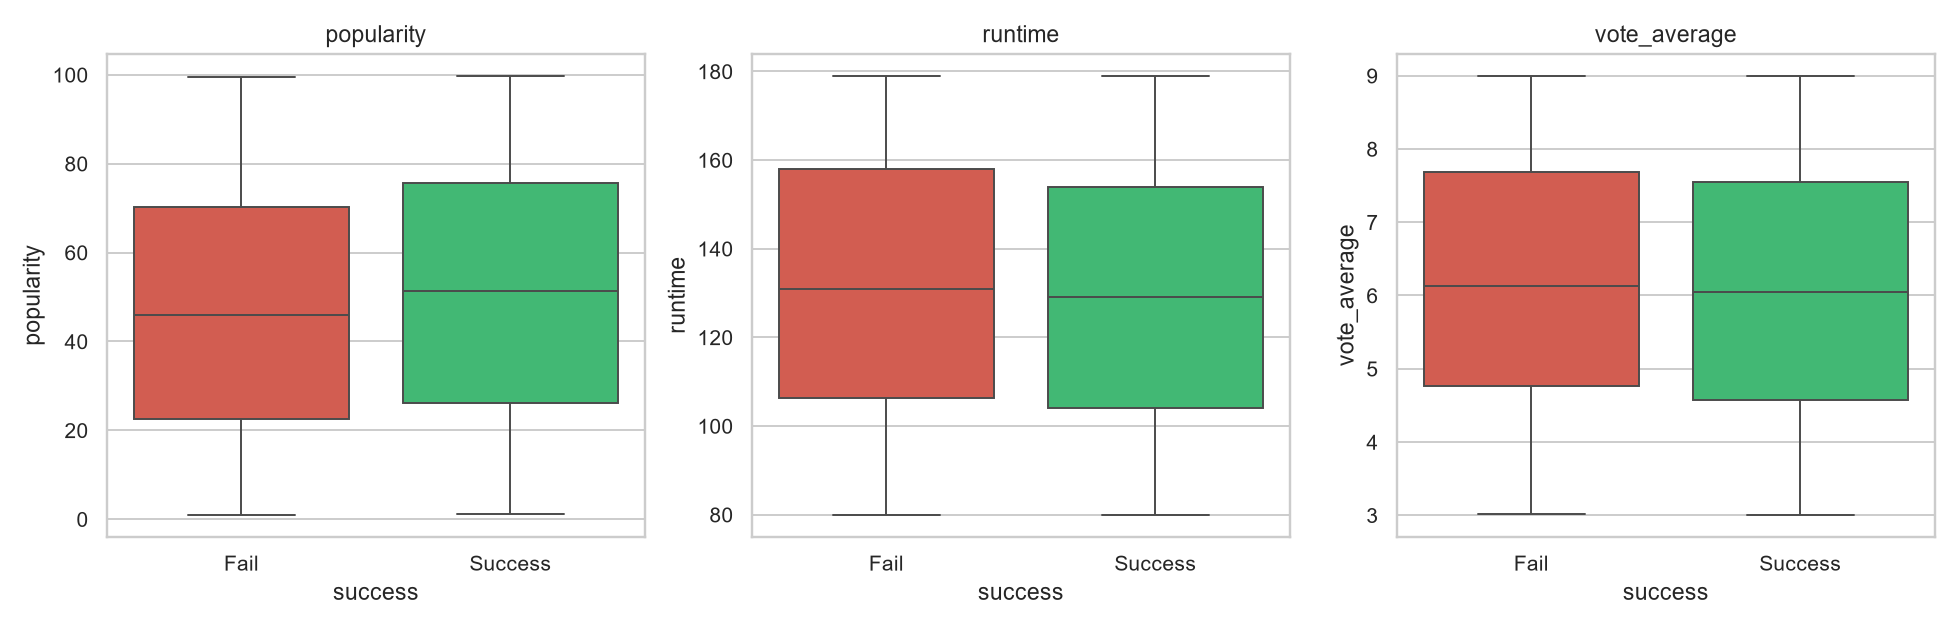
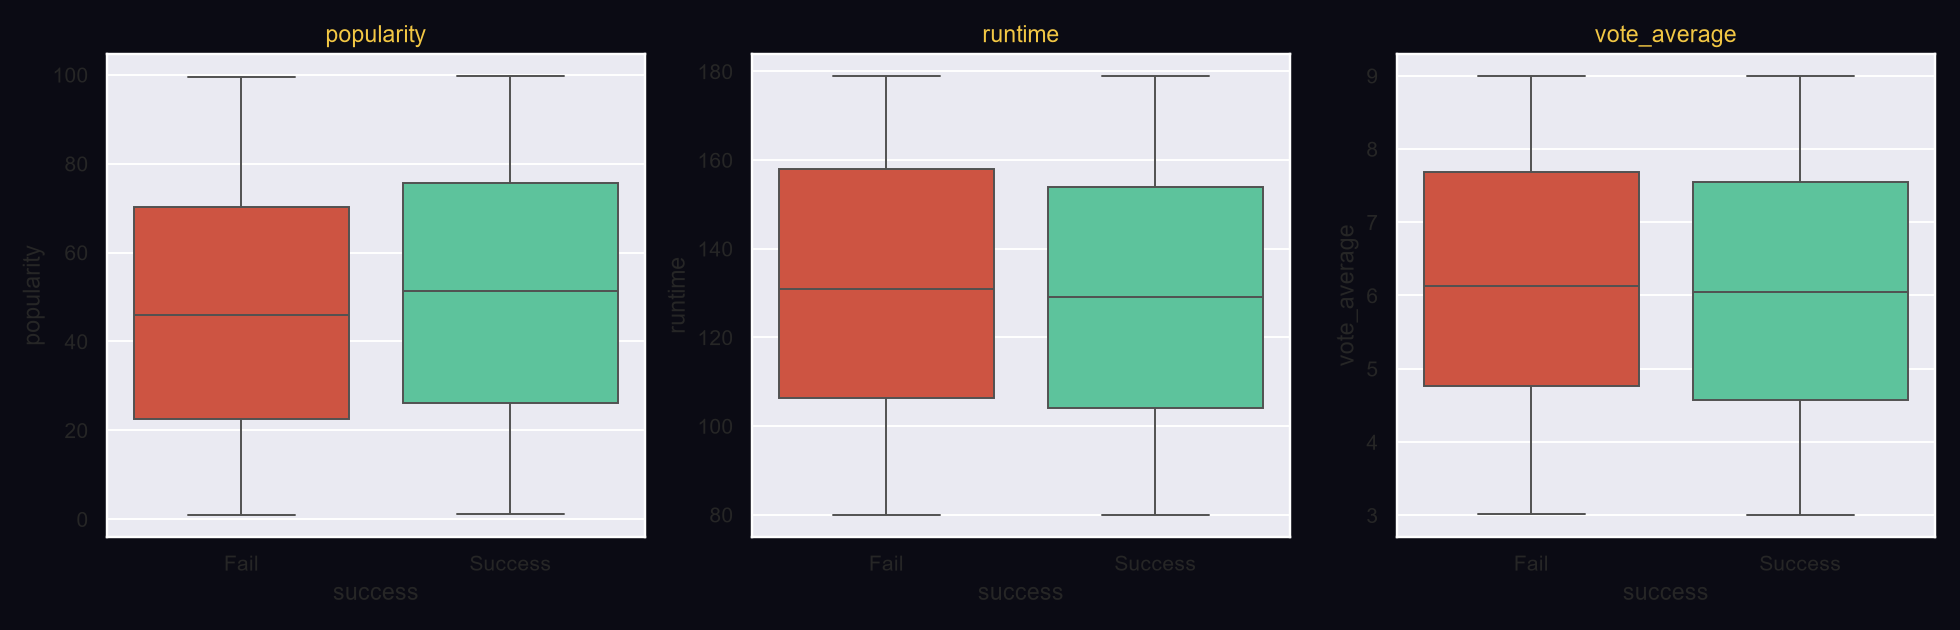
Cinema marquee redesign

diff --git a/MovieIQ.py b/MovieIQ.py
@@ -21,17 +21,98 @@ import streamlit as st
 # ---------------------------------------------------------------------------
 st.set_page_config(page_title="MovieIQ", page_icon="🎬", layout="wide")
 
+# Cinema-marquee palette
+GOLD = "#F2C744"
+CRIMSON = "#E4432B"
+TEAL = "#2EC4B6"
+VIOLET = "#8B5CF6"
+INK = "#0B0B14"
+PANEL = "#16161F"
+TEXT = "#F5F3EE"
+MUTED = "#A8A5B8"
+CHART_SEQUENCE = [GOLD, TEAL, CRIMSON, VIOLET, "#5B8DEF", "#F27D64", "#4CD4A0", "#C77DFF"]
+
 st.markdown(
-    """
+    f"""
     <style>
-    .stMetric { background: #14141c; border-radius: 12px; padding: 14px 10px; }
-    div[data-testid="stMetricValue"] { color: #f5c518; }
-    .movieiq-hero {
-        background: linear-gradient(135deg, #1f1c2c 0%, #928dab 100%);
-        padding: 28px 32px; border-radius: 16px; margin-bottom: 18px;
-    }
-    .movieiq-hero h1 { color: white; margin-bottom: 4px; }
-    .movieiq-hero p { color: #eaeaea; margin: 0; }
+    @import url('https://fonts.googleapis.com/css2?family=Bebas+Neue&family=Inter:wght@400;500;600;700&display=swap');
+
+    html, body, [class*="css"] {{ font-family: 'Inter', sans-serif; }}
+    .stApp {{ background: {INK}; }}
+
+    h1, h2, h3, .movieiq-hero h1 {{
+        font-family: 'Bebas Neue', sans-serif;
+        letter-spacing: 0.03em;
+    }}
+
+    .movieiq-hero {{
+        background: linear-gradient(120deg, #1a1024 0%, #2b1030 55%, #1a1024 100%);
+        padding: 34px 36px 26px 36px;
+        border-radius: 18px;
+        margin-bottom: 6px;
+        border: 1px solid rgba(242, 199, 68, 0.25);
+        box-shadow: 0 10px 40px rgba(228, 67, 43, 0.15);
+    }}
+    .movieiq-hero h1 {{
+        color: {GOLD};
+        font-size: 3rem;
+        margin-bottom: 6px;
+        text-shadow: 0 0 18px rgba(242, 199, 68, 0.35);
+    }}
+    .movieiq-hero p {{ color: {MUTED}; margin: 0; font-size: 1.02rem; }}
+
+    .marquee-lights {{
+        display: flex; gap: 10px; justify-content: center;
+        padding: 12px 0 22px 0;
+    }}
+    .marquee-lights span {{
+        width: 8px; height: 8px; border-radius: 50%;
+        display: inline-block;
+        animation: marquee-blink 1.6s infinite ease-in-out;
+    }}
+    .marquee-lights span:nth-child(4n+1) {{ background: {GOLD}; box-shadow: 0 0 8px {GOLD}; animation-delay: 0s; }}
+    .marquee-lights span:nth-child(4n+2) {{ background: {CRIMSON}; box-shadow: 0 0 8px {CRIMSON}; animation-delay: 0.2s; }}
+    .marquee-lights span:nth-child(4n+3) {{ background: {TEAL}; box-shadow: 0 0 8px {TEAL}; animation-delay: 0.4s; }}
+    .marquee-lights span:nth-child(4n+4) {{ background: {VIOLET}; box-shadow: 0 0 8px {VIOLET}; animation-delay: 0.6s; }}
+    @keyframes marquee-blink {{
+        0%, 100% {{ opacity: 0.35; transform: scale(0.85); }}
+        50% {{ opacity: 1; transform: scale(1.1); }}
+    }}
+    @media (prefers-reduced-motion: reduce) {{
+        .marquee-lights span {{ animation: none; opacity: 0.9; }}
+    }}
+
+    div[data-testid="stMetric"] {{
+        border-radius: 14px; padding: 16px 14px;
+        border: 1px solid rgba(255,255,255,0.06);
+        background: {PANEL};
+    }}
+    div[data-testid="column"]:nth-of-type(4n+1) div[data-testid="stMetric"] {{ border-top: 3px solid {GOLD}; }}
+    div[data-testid="column"]:nth-of-type(4n+2) div[data-testid="stMetric"] {{ border-top: 3px solid {TEAL}; }}
+    div[data-testid="column"]:nth-of-type(4n+3) div[data-testid="stMetric"] {{ border-top: 3px solid {CRIMSON}; }}
+    div[data-testid="column"]:nth-of-type(4n+4) div[data-testid="stMetric"] {{ border-top: 3px solid {VIOLET}; }}
+    div[data-testid="stMetricValue"] {{ color: {GOLD}; font-family: 'Bebas Neue', sans-serif; font-size: 2.1rem; }}
+    div[data-testid="stMetricLabel"] {{ color: {MUTED}; }}
+
+    .stTabs [data-baseweb="tab-list"] {{ gap: 4px; border-bottom: 2px solid rgba(255,255,255,0.06); }}
+    .stTabs [data-baseweb="tab"] {{
+        background: {PANEL}; border-radius: 10px 10px 0 0; padding: 10px 18px;
+        color: {MUTED}; font-weight: 600;
+    }}
+    .stTabs [aria-selected="true"] {{
+        color: {INK} !important; background: {GOLD} !important;
+    }}
+
+    section[data-testid="stSidebar"] {{ background: #100E17; border-right: 1px solid rgba(242,199,68,0.12); }}
+    section[data-testid="stSidebar"] h1, section[data-testid="stSidebar"] h2, section[data-testid="stSidebar"] h3 {{ color: {GOLD}; }}
+
+    .stButton>button, .stDownloadButton>button {{
+        background: linear-gradient(90deg, {CRIMSON}, {GOLD});
+        color: {INK}; border: none; font-weight: 700; border-radius: 8px;
+    }}
+    .stButton>button:hover, .stDownloadButton>button:hover {{ filter: brightness(1.08); }}
+
+    div[data-testid="stAlertContainer"] {{ border-radius: 10px; }}
     </style>
     """,
     unsafe_allow_html=True,
@@ -60,6 +141,21 @@ def load_json(path):
         return json.load(f)
 
 
+def themed(fig):
+    """Apply the MovieIQ dark/marquee look to any Plotly figure."""
+    fig.update_layout(
+        paper_bgcolor="rgba(0,0,0,0)",
+        plot_bgcolor="rgba(0,0,0,0)",
+        font_color=TEXT,
+        legend_title_font_color=TEXT,
+        colorway=CHART_SEQUENCE,
+        margin=dict(t=40, b=30, l=10, r=10),
+    )
+    fig.update_xaxes(gridcolor="rgba(255,255,255,0.08)", zerolinecolor="rgba(255,255,255,0.15)")
+    fig.update_yaxes(gridcolor="rgba(255,255,255,0.08)", zerolinecolor="rgba(255,255,255,0.15)")
+    return fig
+
+
 df = load_data()
 bundle = load_model()
 model = bundle["model"]
@@ -78,6 +174,12 @@ st.markdown(
     <div class="movieiq-hero">
         <h1>🎬 MovieIQ</h1>
         <p>Predictive analytics on film success — explore the data, see the stats, and get a live prediction.</p>
+    </div>
+    <div class="marquee-lights">
+        <span></span><span></span><span></span><span></span><span></span><span></span>
+        <span></span><span></span><span></span><span></span><span></span><span></span>
+        <span></span><span></span><span></span><span></span><span></span><span></span>
+        <span></span><span></span>
     </div>
     """,
     unsafe_allow_html=True,
@@ -139,7 +241,7 @@ with tab_overview:
     max_val = max(filtered["budget"].max(), filtered["revenue"].max()) if len(filtered) else 1
     fig.add_shape(type="line", x0=0, y0=0, x1=max_val, y1=max_val,
                   line=dict(dash="dash", color="gray"))
-    st.plotly_chart(fig, width="stretch")
+    st.plotly_chart(themed(fig), width="stretch")
     st.caption(
         f"Correlation between budget and revenue across the full dataset: "
         f"**{stats_results['correlation_budget_revenue']}** — bigger budgets trend toward "
@@ -154,8 +256,8 @@ with tab_eda:
         st.subheader("Most common genres")
         genre_counts = filtered.explode("genre_list")["genre_list"].value_counts().head(10)
         st.plotly_chart(
-            px.bar(genre_counts, orientation="h", labels={"value": "Movies", "index": "Genre"},
-                   color_discrete_sequence=["#3498db"]).update_yaxes(autorange="reversed"),
+            themed(px.bar(genre_counts, orientation="h", labels={"value": "Movies", "index": "Genre"},
+                   color_discrete_sequence=[TEAL]).update_yaxes(autorange="reversed")),
             width="stretch",
         )
 
@@ -163,8 +265,8 @@ with tab_eda:
         st.subheader("Success rate by genre")
         genre_success = filtered.explode("genre_list").groupby("genre_list")["success"].mean().sort_values(ascending=False).head(10)
         st.plotly_chart(
-            px.bar(genre_success, orientation="h", labels={"value": "Success rate", "index": "Genre"},
-                   color_discrete_sequence=["#2ecc71"]).update_yaxes(autorange="reversed"),
+            themed(px.bar(genre_success, orientation="h", labels={"value": "Success rate", "index": "Genre"},
+                   color_discrete_sequence=[GOLD]).update_yaxes(autorange="reversed")),
             width="stretch",
         )
 
@@ -176,7 +278,7 @@ with tab_eda:
         color_discrete_map={"Fail": "#e74c3c", "Success": "#2ecc71"},
         labels={"x": "Outcome"},
     )
-    st.plotly_chart(fig_box, width="stretch")
+    st.plotly_chart(themed(fig_box), width="stretch")
 
     st.subheader("Correlation heatmap (numeric features)")
     st.image("assets/correlation_heatmap.png", use_container_width=False, width=560)
@@ -277,7 +379,7 @@ with tab_model:
             },
         ))
         fig_gauge.update_layout(height=280, margin=dict(l=20, r=20, t=50, b=10))
-        st.plotly_chart(fig_gauge, width="stretch")
+        st.plotly_chart(themed(fig_gauge), width="stretch")
         st.caption(
             "Prediction is based only on budget, popularity, runtime, rating, and genre — "
             "revenue is intentionally never used as an input, since it defines the label itself."

diff --git a/analysis.py b/analysis.py
@@ -15,7 +15,16 @@ import pandas as pd
 import seaborn as sns
 from scipy import stats
 
-sns.set_theme(style="whitegrid")
+GOLD, CRIMSON, TEAL, VIOLET = "#F2C744", "#E4432B", "#2EC4B6", "#8B5CF6"
+INK, PANEL, TEXT, MUTED = "#0B0B14", "#16161F", "#F5F3EE", "#A8A5B8"
+
+plt.rcParams.update({
+    "figure.facecolor": INK, "axes.facecolor": INK, "savefig.facecolor": INK,
+    "axes.edgecolor": MUTED, "axes.labelcolor": TEXT, "text.color": TEXT,
+    "xtick.color": MUTED, "ytick.color": MUTED, "grid.color": "#2A2A38",
+    "axes.titlecolor": GOLD, "legend.facecolor": PANEL, "legend.edgecolor": MUTED,
+})
+sns.set_theme(style="darkgrid", rc=plt.rcParams)
 ASSETS = "assets"
 
 # ---------------------------------------------------------------------------
@@ -61,7 +70,7 @@ print("[Stage 1.4] Saved movies_clean.csv with genre_list / primary_genre column
 plt.figure(figsize=(7, 5))
 sns.scatterplot(
     data=df, x="budget", y="revenue", hue="success",
-    palette={0: "#e74c3c", 1: "#2ecc71"}, alpha=0.6,
+    palette={0: CRIMSON, 1: "#4CD4A0"}, alpha=0.6,
 )
 lims = [0, max(df["budget"].max(), df["revenue"].max())]
 plt.plot(lims, lims, "--", color="gray", linewidth=1, label="break-even line")
@@ -82,12 +91,12 @@ genre_counts = genre_exploded["genre_list"].value_counts()
 genre_success = genre_exploded.groupby("genre_list")["success"].mean().sort_values(ascending=False)
 
 fig, axes = plt.subplots(1, 2, figsize=(13, 5))
-genre_counts.head(10).plot(kind="barh", ax=axes[0], color="#3498db")
+genre_counts.head(10).plot(kind="barh", ax=axes[0], color=TEAL)
 axes[0].invert_yaxis()
 axes[0].set_title("Most Common Genres")
 axes[0].set_xlabel("Number of Movies")
 
-genre_success.head(10).plot(kind="barh", ax=axes[1], color="#2ecc71")
+genre_success.head(10).plot(kind="barh", ax=axes[1], color=GOLD)
 axes[1].invert_yaxis()
 axes[1].set_title("Highest Success Rate by Genre")
 axes[1].set_xlabel("Success Rate")
@@ -99,7 +108,7 @@ plt.close()
 fig, axes = plt.subplots(1, 3, figsize=(14, 4.5))
 for ax, col in zip(axes, ["popularity", "runtime", "vote_average"]):
     sns.boxplot(data=df, x="success", y=col, hue="success", ax=ax,
-                palette={0: "#e74c3c", 1: "#2ecc71"}, legend=False)
+                palette={0: CRIMSON, 1: "#4CD4A0"}, legend=False)
     ax.set_xticklabels(["Fail", "Success"])
     ax.set_title(col)
 plt.tight_layout()
@@ -113,7 +122,7 @@ print("[Stage 2.3] means by success class:\n", means_by_success)
 plt.figure(figsize=(6.5, 5.5))
 num_cols = ["budget", "revenue", "popularity", "runtime", "vote_average", "success"]
 corr = df[num_cols].corr()
-sns.heatmap(corr, annot=True, fmt=".2f", cmap="coolwarm", center=0)
+sns.heatmap(corr, annot=True, fmt=".2f", cmap="rocket_r", center=0)
 plt.title("Correlation Heatmap")
 plt.tight_layout()
 plt.savefig(f"{ASSETS}/correlation_heatmap.png", dpi=140)

diff --git a/train_model.py b/train_model.py
@@ -24,6 +24,14 @@ from sklearn.metrics import (
 )
 from sklearn.model_selection import train_test_split
 
+GOLD, CRIMSON, TEAL, VIOLET = "#F2C744", "#E4432B", "#2EC4B6", "#8B5CF6"
+INK, TEXT, MUTED = "#0B0B14", "#F5F3EE", "#A8A5B8"
+plt.rcParams.update({
+    "figure.facecolor": INK, "axes.facecolor": INK, "savefig.facecolor": INK,
+    "axes.edgecolor": MUTED, "axes.labelcolor": TEXT, "text.color": TEXT,
+    "xtick.color": MUTED, "ytick.color": MUTED, "axes.titlecolor": GOLD,
+})
+
 df = pd.read_csv("movies_clean.csv")
 
 # 4.1 Feature selection.
@@ -66,7 +74,7 @@ print(f"[Stage 4.4] Accuracy={acc:.3f}  Precision={prec:.3f}  Recall={rec:.3f}")
 print("Confusion matrix:\n", cm)
 
 plt.figure(figsize=(5, 4.5))
-sns.heatmap(cm, annot=True, fmt="d", cmap="Blues",
+sns.heatmap(cm, annot=True, fmt="d", cmap="rocket_r",
             xticklabels=["Fail", "Success"], yticklabels=["Fail", "Success"])
 plt.xlabel("Predicted")
 plt.ylabel("Actual")
@@ -78,7 +86,7 @@ plt.close()
 # 4.5 Feature importance
 importances = pd.Series(model.feature_importances_, index=feature_columns).sort_values(ascending=False)
 plt.figure(figsize=(7, 5))
-importances.head(12).plot(kind="barh", color="#9b59b6")
+importances.head(12).plot(kind="barh", color=VIOLET)
 plt.gca().invert_yaxis()
 plt.title("Feature Importance - Random Forest")
 plt.xlabel("Importance")
